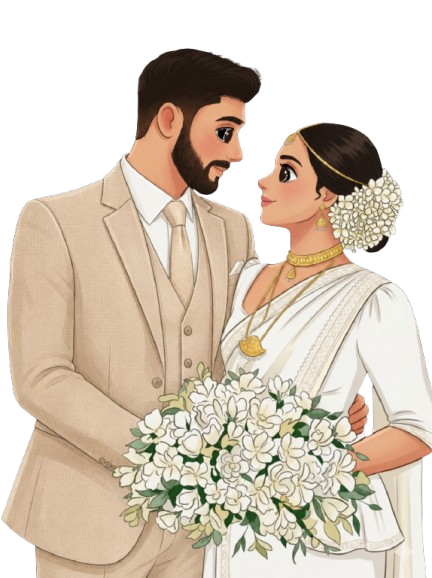
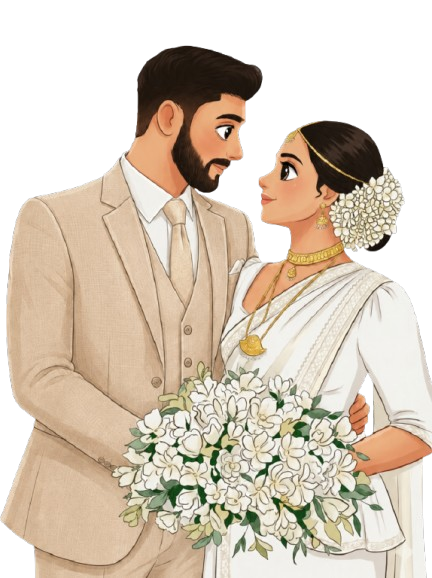
t

diff --git a/app/admin/page.tsx b/app/admin/page.tsx
@@ -1,0 +1,180 @@
+'use client';
+
+import { useState, useEffect } from 'react';
+import { motion, AnimatePresence } from 'framer-motion';
+import { Copy, Link as LinkIcon, MessageCircleHeart, CheckCircle2 } from 'lucide-react';
+
+const PREFIXES = ['Mr.', 'Mrs.', 'Mr. & Mrs.', 'Family', 'Dear'];
+
+export default function AdminPage() {
+  const [prefix, setPrefix] = useState(PREFIXES[0]);
+  const [guestName, setGuestName] = useState('');
+  const [generatedLink, setGeneratedLink] = useState('');
+  const [copiedLink, setCopiedLink] = useState(false);
+  const [copiedMessage, setCopiedMessage] = useState(false);
+  const [baseUrl, setBaseUrl] = useState('');
+
+  useEffect(() => {
+    // Safely get base URL in client
+    setBaseUrl(window.location.origin);
+  }, []);
+
+  const handleGenerate = () => {
+    if (!guestName.trim()) {
+      setGeneratedLink('');
+      return;
+    }
+    
+    const params = new URLSearchParams({
+      prefix,
+      guest: guestName.trim()
+    });
+    
+    setGeneratedLink(`${baseUrl}/?${params.toString()}`);
+    setCopiedLink(false);
+    setCopiedMessage(false);
+  };
+
+  const getMessageTemplate = () => {
+    return `Dear ${prefix} ${guestName.trim()} ❤️
+
+With joyful hearts, we warmly invite you to celebrate one of the most special days of our lives as we begin our journey together.
+
+Please view our wedding invitation and all the event details through the link below 🌐:
+
+${generatedLink}
+
+Your presence would truly mean the world to us, and we would be honored to celebrate this beautiful moment together.
+
+With love,
+❤️ Nimesh & Sarada`;
+  };
+
+  const handleCopyLink = async () => {
+    if (!generatedLink) return;
+    try {
+      await navigator.clipboard.writeText(generatedLink);
+      setCopiedLink(true);
+      setTimeout(() => setCopiedLink(false), 2000);
+    } catch (err) {
+      console.error('Failed to copy link', err);
+    }
+  };
+
+  const handleCopyMessage = async () => {
+    if (!generatedLink) return;
+    try {
+      await navigator.clipboard.writeText(getMessageTemplate());
+      setCopiedMessage(true);
+      setTimeout(() => setCopiedMessage(false), 2000);
+    } catch (err) {
+      console.error('Failed to copy message', err);
+    }
+  };
+
+  return (
+    <div className="min-h-screen bg-[linear-gradient(180deg,#fff8ee_0%,#fff1df_45%,#fbe7d2_100%)] px-4 py-12 sm:px-6 lg:px-8 flex items-center justify-center">
+      <div className="absolute inset-0 pointer-events-none overflow-hidden">
+        <div
+          className="absolute inset-0 opacity-[0.18]"
+          style={{
+            backgroundImage: 'radial-gradient(circle at 10px 10px, rgba(190,126,84,0.4) 1px, transparent 1px)',
+            backgroundSize: '34px 34px',
+          }}
+        />
+      </div>
+
+      <div className="relative z-10 w-full max-w-3xl">
+        <motion.div
+          initial={{ opacity: 0, y: 20 }}
+          animate={{ opacity: 1, y: 0 }}
+          className="bg-white/80 backdrop-blur-xl shadow-[0_20px_52px_rgba(191,126,84,0.18)] rounded-[2.5rem] border border-[#edd8bf] p-8 md:p-12"
+        >
+          <div className="text-center mb-10">
+            <h1 className="font-serif text-3xl md:text-5xl font-medium text-[#4d3732] mb-4">
+              Invitation Link <span className="text-[#c06f58]">Generator</span>
+            </h1>
+            <p className="text-[#7b6258]">Create personalized wedding invitation links for your guests.</p>
+          </div>
+
+          <div className="space-y-6">
+            <div className="grid grid-cols-1 md:grid-cols-3 gap-6">
+              <div className="space-y-2">
+                <label className="block text-xs font-bold uppercase tracking-[0.2em] text-[#bf7752]">Prefix</label>
+                <select
+                  value={prefix}
+                  onChange={(e) => setPrefix(e.target.value)}
+                  className="w-full h-14 rounded-2xl border border-[#efdcc9] bg-white/65 px-4 text-[#4a3b3c] outline-none transition-all duration-300 focus:border-[#bf7752] focus:bg-white focus:shadow-[0_10px_20px_rgba(191,119,82,0.12)]"
+                >
+                  {PREFIXES.map((p) => (
+                    <option key={p} value={p}>{p}</option>
+                  ))}
+                </select>
+              </div>
+
+              <div className="space-y-2 md:col-span-2">
+                <label className="block text-xs font-bold uppercase tracking-[0.2em] text-[#bf7752]">Guest Name</label>
+                <input
+                  type="text"
+                  value={guestName}
+                  onChange={(e) => {
+                    setGuestName(e.target.value);
+                    setGeneratedLink('');
+                  }}
+                  placeholder="e.g. Sanjaya"
+                  className="w-full h-14 rounded-2xl border border-[#efdcc9] bg-white/65 px-4 text-[#4a3b3c] placeholder-[#d9b89e] outline-none transition-all duration-300 focus:border-[#bf7752] focus:bg-white focus:shadow-[0_10px_20px_rgba(191,119,82,0.12)]"
+                />
+              </div>
+            </div>
+
+            <button
+              onClick={handleGenerate}
+              disabled={!guestName.trim()}
+              className="w-full h-14 rounded-2xl bg-gradient-to-r from-[#ca7c57] to-[#be7752] text-white font-bold uppercase tracking-[0.1em] shadow-[0_10px_20px_rgba(191,119,82,0.35)] transition-all hover:shadow-[0_15px_30px_rgba(171,98,64,0.42)] disabled:opacity-50 disabled:cursor-not-allowed hover:-translate-y-0.5 active:translate-y-0"
+            >
+              Generate Link
+            </button>
+          </div>
+
+          <AnimatePresence>
+            {generatedLink && (
+              <motion.div
+                initial={{ opacity: 0, height: 0, marginTop: 0 }}
+                animate={{ opacity: 1, height: 'auto', marginTop: 40 }}
+                exit={{ opacity: 0, height: 0, marginTop: 0 }}
+                className="overflow-hidden"
+              >
+                <div className="pt-8 border-t border-[#efdcc9]">
+                  <div className="flex flex-col md:flex-row gap-4 mb-8">
+                    <button
+                      onClick={handleCopyLink}
+                      className="flex-1 inline-flex items-center justify-center gap-2 h-12 rounded-xl border-2 border-[#bf7752] text-[#bf7752] font-semibold tracking-wide transition-colors hover:bg-[#bf7752] hover:text-white"
+                    >
+                      {copiedLink ? <CheckCircle2 className="h-5 w-5" /> : <LinkIcon className="h-5 w-5" />}
+                      {copiedLink ? 'Link Copied!' : 'Copy Link Only'}
+                    </button>
+                    
+                    <button
+                      onClick={handleCopyMessage}
+                      className="flex-1 inline-flex items-center justify-center gap-2 h-12 rounded-xl bg-[#bf7752] text-white font-semibold tracking-wide shadow-md transition-all hover:bg-[#ab6240]"
+                    >
+                      {copiedMessage ? <CheckCircle2 className="h-5 w-5" /> : <MessageCircleHeart className="h-5 w-5" />}
+                      {copiedMessage ? 'Message Copied!' : 'Copy Full Message'}
+                    </button>
+                  </div>
+
+                  <div className="space-y-2">
+                    <label className="block text-xs font-bold uppercase tracking-[0.2em] text-[#bf7752]">Message Preview</label>
+                    <div className="p-6 rounded-2xl border border-[#efdcc9] bg-white/40 whitespace-pre-wrap text-[#4a3b3c] font-medium leading-relaxed">
+                      {getMessageTemplate()}
+                    </div>
+                  </div>
+                </div>
+              </motion.div>
+            )}
+          </AnimatePresence>
+        </motion.div>
+      </div>
+    </div>
+  );
+}

diff --git a/components/sections/InvitationSection.tsx b/components/sections/InvitationSection.tsx
@@ -3,9 +3,13 @@
 import { motion } from 'framer-motion';
 import { useInView } from 'react-intersection-observer';
 import Image from 'next/image';
+import { useSearchParams } from 'next/navigation';
 
 export default function InvitationSection() {
   const { ref, inView } = useInView({ threshold: 0.1, triggerOnce: true });
+  const searchParams = useSearchParams();
+  const guest = searchParams.get('guest');
+  const prefix = searchParams.get('prefix');
 
   return (
     <section
@@ -29,8 +33,18 @@ export default function InvitationSection() {
         </p>
 
         <h2 className="font-sans text-sm sm:text-base md:text-lg font-medium tracking-[0.3em] leading-loose text-[#2b3746] uppercase max-w-2xl mb-8">
-          You are cordially invited<br />
-          to celebrate the union of<br />
+          {guest ? (
+            <>
+              We request the pleasure of the presence of<br />
+              <span className="text-xl sm:text-2xl font-bold text-[#c06f58] my-2 block">{prefix} {guest}</span>
+              to celebrate our wedding
+            </>
+          ) : (
+            <>
+              We request the pleasure of your presence<br />
+              to celebrate our wedding
+            </>
+          )}
           <span className="font-serif text-2xl sm:text-3xl md:text-4xl text-[#1a232f] normal-case tracking-normal mt-4 block">Nimesh & Sarada</span>
         </h2>
 

diff --git a/components/sections/HeroSection.tsx b/components/sections/HeroSection.tsx
@@ -3,9 +3,13 @@
 import { motion } from 'framer-motion';
 import { useInView } from 'react-intersection-observer';
 import { Heart, Sparkles } from 'lucide-react';
+import { useSearchParams } from 'next/navigation';
 
 export default function HeroSection() {
   const { ref, inView } = useInView({ threshold: 0.05, triggerOnce: true });
+  const searchParams = useSearchParams();
+  const guest = searchParams.get('guest');
+  const prefix = searchParams.get('prefix');
 
   return (
     <section
@@ -76,7 +80,11 @@ export default function HeroSection() {
           transition={{ duration: 1, delay: 0.25 }}
           className="mt-8 max-w-3xl text-sm leading-relaxed text-[#f8ead0] sm:text-base md:text-lg"
         >
-          Request the pleasure of the presence of Mr./Mrs./Mr. & Mrs./ Miss.. To celebrate their marriage
+          {guest ? (
+            <>We request the pleasure of the presence of {prefix} {guest} to celebrate our wedding</>
+          ) : (
+            <>We request the pleasure of your presence to celebrate our wedding</>
+          )}
         </motion.p>
 
         <motion.div

diff --git a/app/page.tsx b/app/page.tsx
@@ -1,6 +1,6 @@
 'use client';
 
-import { useState, useEffect } from 'react';
+import { useState, useEffect, Suspense } from 'react';
 import { VideoIntro } from '@/components/video-intro';
 import HeroSection from '@/components/sections/HeroSection';
 import InvitationSection from '@/components/sections/InvitationSection';
@@ -31,8 +31,10 @@ export default function Home() {
         <VideoIntro onIntroEnd={() => setIsOpened(true)} />
       ) : (
         <>
-          <HeroSection />
-          <InvitationSection />
+          <Suspense fallback={null}>
+            <HeroSection />
+            <InvitationSection />
+          </Suspense>
           <CeremonyDetails />
           <CountdownSection />
           <GallerySection />

diff --git a/components/sections/VenueLocation.tsx b/components/sections/VenueLocation.tsx
@@ -87,7 +87,7 @@ export default function VenueLocation() {
               className="absolute inset-0 opacity-90 bg-cover bg-center"
               style={{
                 backgroundImage:
-                  'url("https://tse4.mm.bing.net/th/id/OIP.3ZniRTKERbAgcpJfyYuHWAHaFj?rs=1&pid=ImgDetMain&o=7&rm=3")',
+                  'url("/l.jpeg")',
               }}
             />
 
@@ -124,7 +124,7 @@ export default function VenueLocation() {
               >
                 <div>
                   <p className="text-[10px] font-semibold uppercase tracking-[0.2em] text-[#be7f56]">Location</p>
-                  <h4 className="mt-1 font-serif text-lg text-[#4d3732] sm:text-2xl">Hotel Green Court, Homagama</h4>
+                  <h4 className="mt-1 font-serif text-lg text-[#4d3732] sm:text-2xl">Grand ball room, Hotel Green Court, Homagama</h4>
                 </div>
                 <motion.div whileHover={{ scale: 1.08 }} className="flex h-11 w-11 items-center justify-center rounded-full bg-[#ca7c57] text-white shadow-md">
                   <Navigation className="h-5 w-5" />
@@ -146,11 +146,11 @@ export default function VenueLocation() {
               </div>
 
               <h3 className="font-serif text-3xl leading-tight text-[#4d3732] md:text-4xl">
-                Hotel Green Court<br />Homagama
+                Grand ball room<br />Hotel Green Court<br />Homagama
               </h3>
 
               <p className="mt-5 text-sm leading-relaxed text-[#7a6258] md:text-base">
-                We warmly invite you to join us at Hotel Green Court, Homagama for our wedding ceremony and celebration.
+                We warmly invite you to join us at the Grand ball room, Hotel Green Court, Homagama for our wedding ceremony and celebration.
               </p>
 
               <a

diff --git a/components/sections/CeremonyDetails.tsx b/components/sections/CeremonyDetails.tsx
@@ -30,8 +30,8 @@ export default function CeremonyDetails() {
       key: 'venue',
       title: 'Location',
       venueLabel: 'Venue',
-      venueValue: 'Hotel Green Court',
-      venueSub: 'Homagama',
+      venueValue: 'Grand ball room',
+      venueSub: 'Hotel Green Court, Homagama',
     },
   ];
 

diff --git a/components/sections/BlessingsSection.tsx b/components/sections/BlessingsSection.tsx
@@ -177,7 +177,7 @@ export default function BlessingsSection() {
           </h2>
 
           <p className="mx-auto mt-8 max-w-xl text-lg leading-relaxed text-[#7b6258]">
-            Share your prayers and heartfelt blessings for our new life together in Christ.
+            Share your prayers and heartfelt blessings for our new life together.
           </p>
         </motion.div>
 